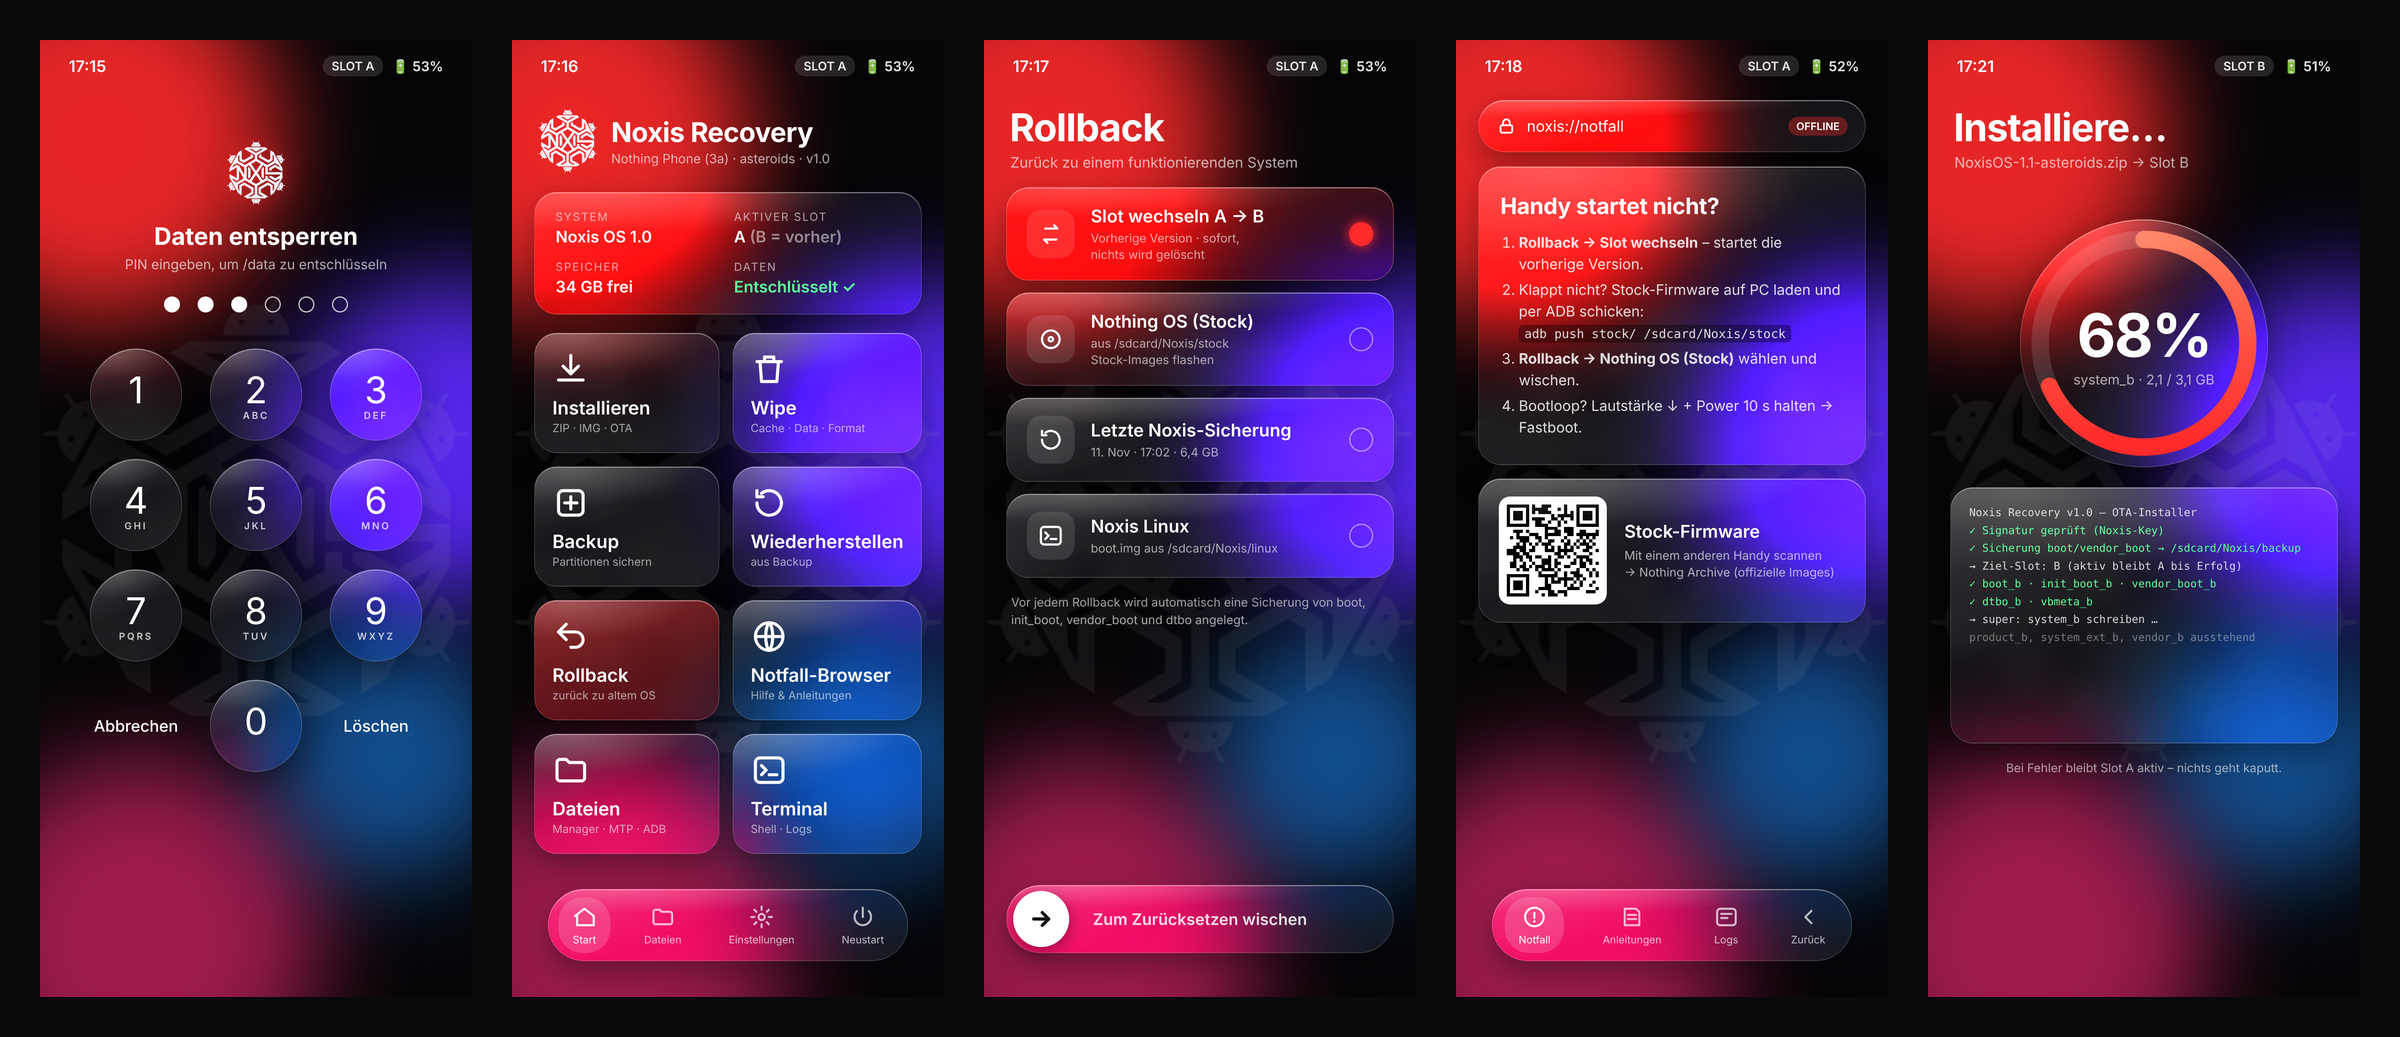
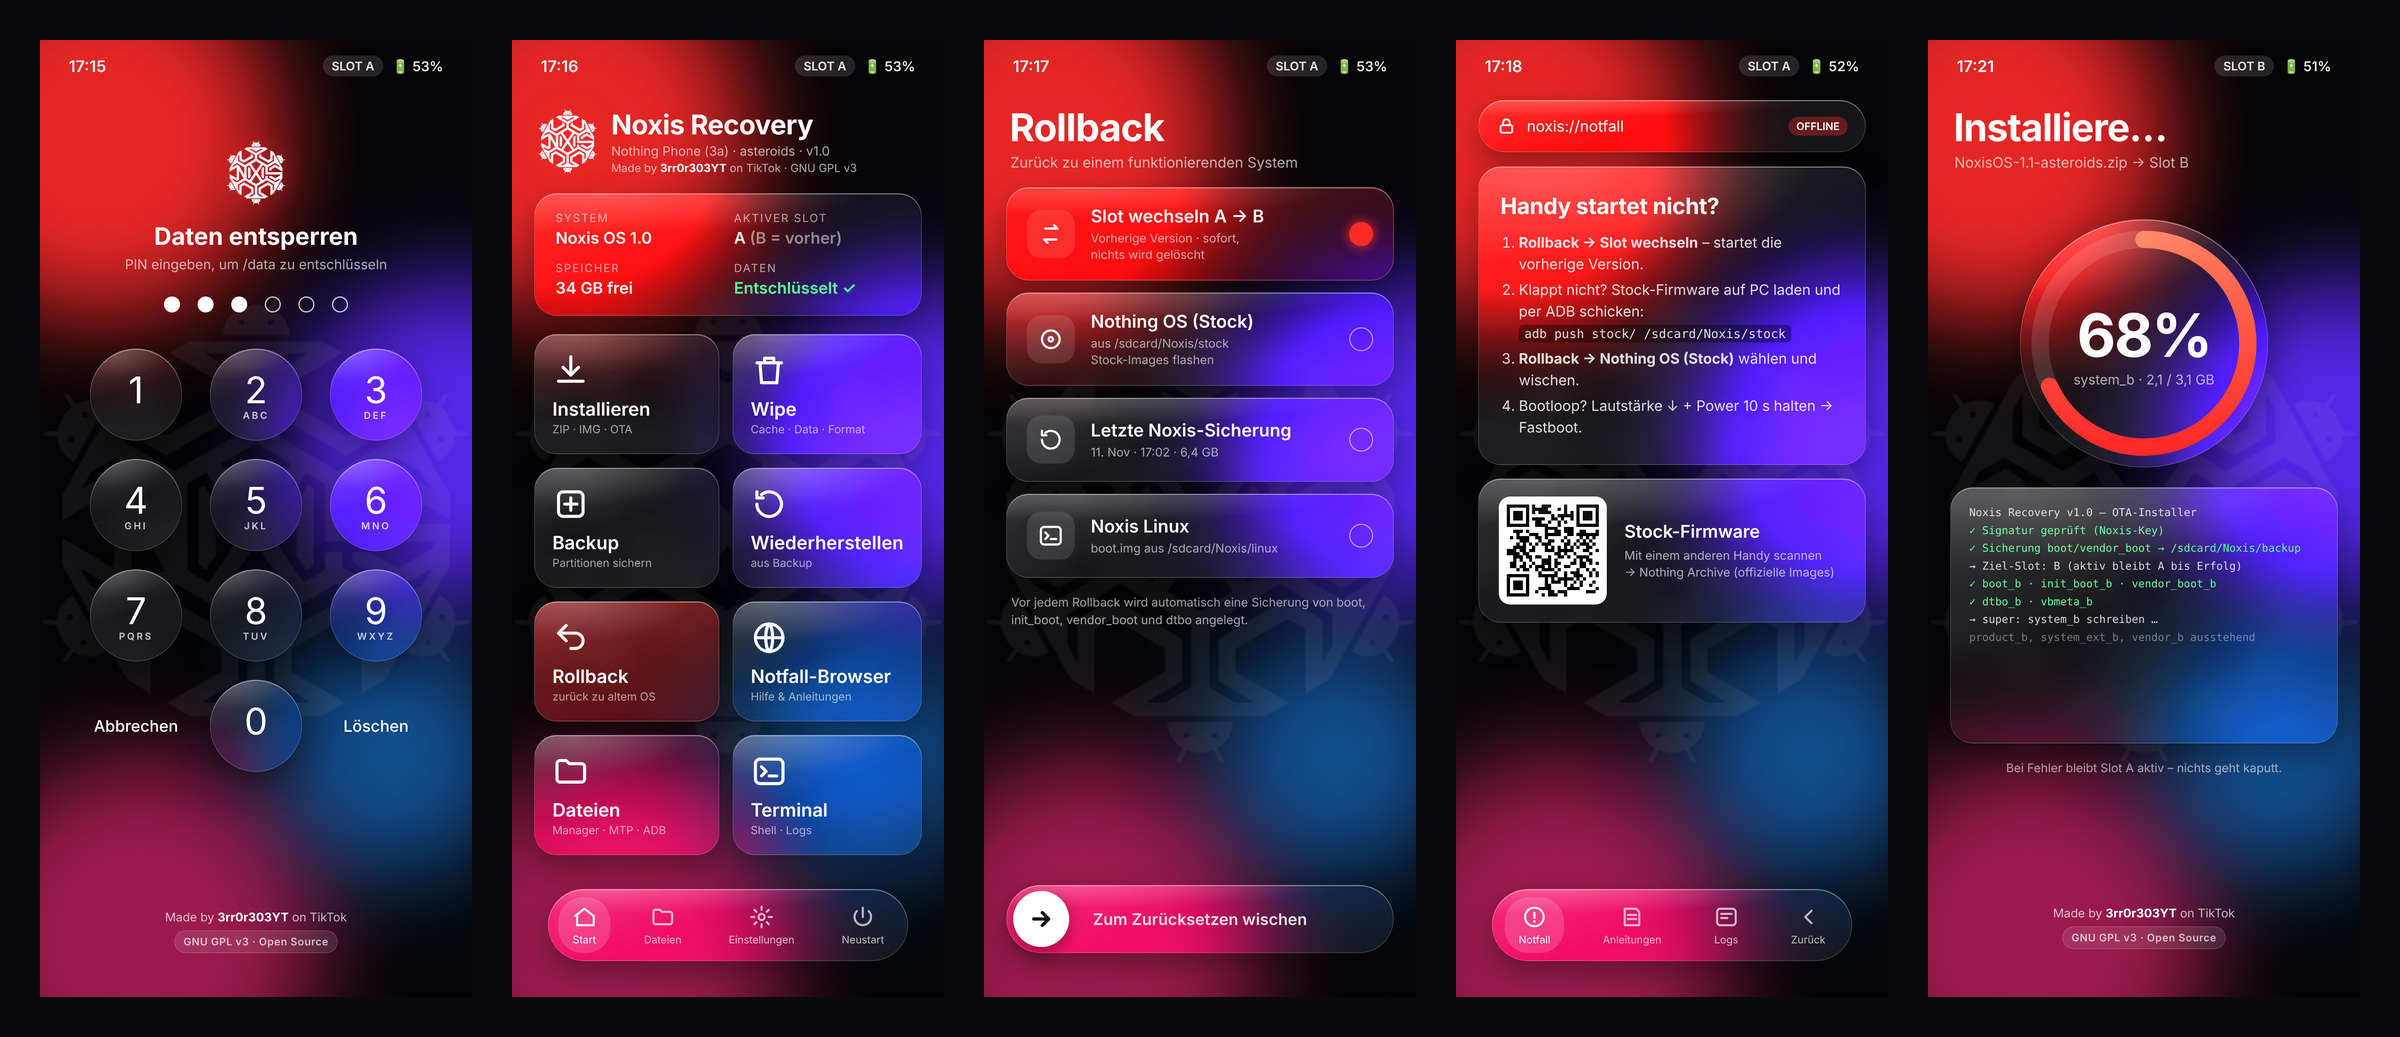
Add TikTok credit and GNU GPL v3 to README and recovery screens
Claude-Session: https://claude.ai/code/session_01GK3zBhcRueEiXmdcqT4wxw

diff --git a/design/mock.html b/design/mock.html
@@ -82,6 +82,8 @@ code{font-family:"DejaVu Sans Mono",monospace;font-size:31px;background:rgba(0,0
 .ring .pct b{font-size:150px;font-weight:700;letter-spacing:-4px}
 .ring .pct i{font-style:normal;font-size:34px;color:rgba(255,255,255,.65)}
 .log{padding:40px 46px;font-family:"DejaVu Sans Mono",monospace;font-size:27px;line-height:1.65;color:rgba(255,255,255,.82);height:640px;overflow:hidden}
+.credit{position:absolute;left:0;right:0;bottom:120px;text-align:center;font-size:30px;color:rgba(255,255,255,.7);line-height:1.6}
+.credit b{color:#fff}.credit .gpl{display:inline-block;margin-top:10px;padding:6px 22px;border-radius:30px;border:1.5px solid rgba(255,255,255,.3);background:rgba(255,255,255,.1);font-size:26px;font-weight:600;letter-spacing:1px}
 .log .g{color:#5dff9a}.log .r{color:#ff6b6b}
 </style></head>
 <body>
@@ -91,7 +93,7 @@ code{font-family:"DejaVu Sans Mono",monospace;font-size:31px;background:rgba(0,0
 <!-- ============ HOME ============ -->
 <div class="screen" id="home">
  <div class="status"><span>17:16</span><span class="r"><span class="pill">SLOT A</span><span>🔋 53%</span></span></div>
- <div class="head"><img src="logo.png"><div><div class="t">Noxis Recovery</div><div class="s">Nothing Phone (3a) · asteroids · v1.0</div></div></div>
+ <div class="head"><img src="logo.png"><div><div class="t">Noxis Recovery</div><div class="s">Nothing Phone (3a) · asteroids · v1.0</div><div class="s" style="font-size:28px">Made by <b style="color:#fff">3rr0r303YT</b> on TikTok · GNU GPL v3</div></div></div>
  <div class="glass info">
   <div><div class="k">System</div><div class="v">Noxis OS 1.0</div></div>
   <div><div class="k">Aktiver Slot</div><div class="v">A <span style="color:rgba(255,255,255,.5)">(B = vorher)</span></div></div>
@@ -168,6 +170,7 @@ code{font-family:"DejaVu Sans Mono",monospace;font-size:31px;background:rgba(0,0
    <div class="glass key nob">Abbrechen</div><div class="glass key">0<small>&nbsp;</small></div><div class="glass key nob">Löschen</div>
   </div>
  </div>
+<div class="credit" style="bottom:110px">Made by <b>3rr0r303YT</b> on TikTok<br><span class="gpl">GNU GPL v3 · Open Source</span></div>
 </div>
 
 <!-- ============ INSTALL ============ -->
@@ -191,6 +194,7 @@ code{font-family:"DejaVu Sans Mono",monospace;font-size:31px;background:rgba(0,0
   <div style="opacity:.5">  product_b, system_ext_b, vendor_b ausstehend</div>
  </div>
  <div class="warn" style="text-align:center">Bei Fehler bleibt Slot A aktiv – nichts geht kaputt.</div>
+ <div class="credit">Made by <b>3rr0r303YT</b> on TikTok<br><span class="gpl">GNU GPL v3 · Open Source</span></div>
 </div>
 
 <script>

diff --git a/README.md b/README.md
@@ -4,6 +4,10 @@
 <p align="center">A custom recovery for the <b>Nothing Phone (3a)</b> (<code>asteroids</code>, SM7635), with a liquid-glass design.<br>
 Part of <a href="https://github.com/Real3rr0r303YT/NoxisOS">Noxis OS</a> and <a href="https://github.com/Real3rr0r303YT/NoxisLinux">Noxis Linux</a>.</p>
 
+<p align="center"><b>Made by <a href="https://www.tiktok.com/@3rr0r303yt">3rr0r303YT on TikTok</a></b><br>
+<a href="LICENSE"><img src="https://img.shields.io/badge/License-GNU%20GPL%20v3-blue.svg"></a>
+<a href="https://buymeacoffee.com/3rr0r303YT"><img src="https://img.shields.io/badge/Buy%20me%20a%20coffee-%E2%98%95-yellow.svg"></a></p>
+
 <p align="center"><img src="docs/img/overview.png" width="100%"></p>
 
 > **Status: design phase.** The screens above are design mockups. There is no `recovery.img` release yet.
@@ -44,6 +48,10 @@ Do not relock the bootloader with a custom recovery or ROM installed.
 ## Support
 
 If you like the project: ☕ **[Buy me a coffee](https://buymeacoffee.com/3rr0r303YT)**
+
+## Credits
+
+Made by **[3rr0r303YT on TikTok](https://www.tiktok.com/@3rr0r303yt)** · GitHub [Real3rr0r303YT](https://github.com/Real3rr0r303YT)
 
 ## License
 
